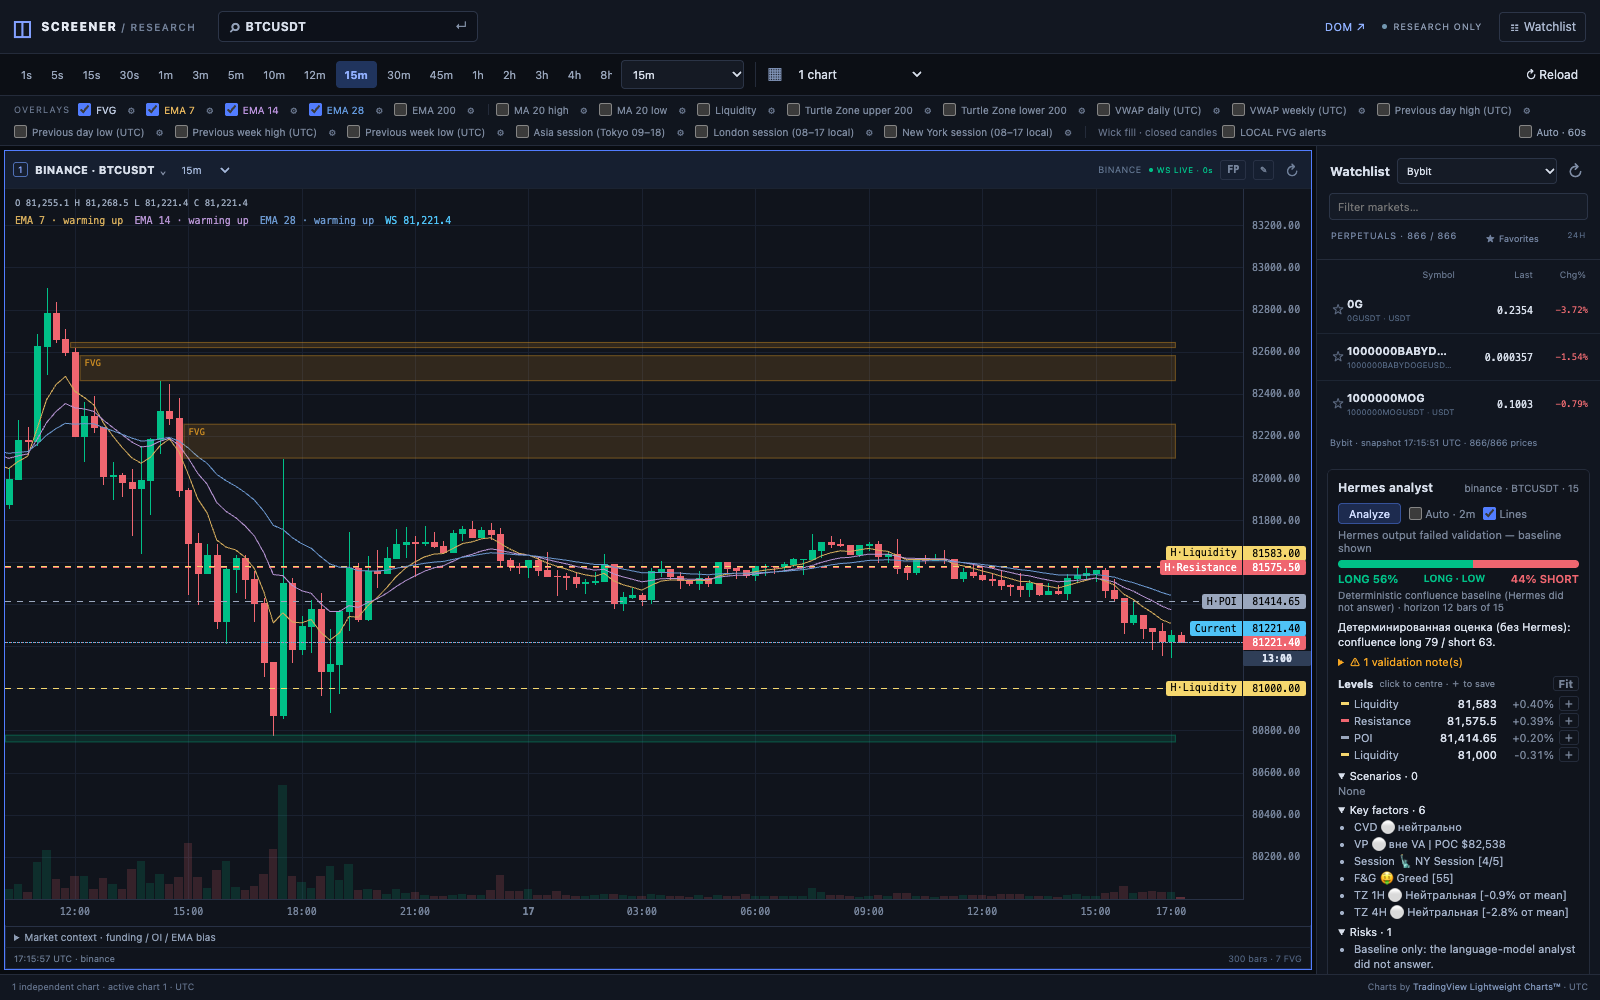
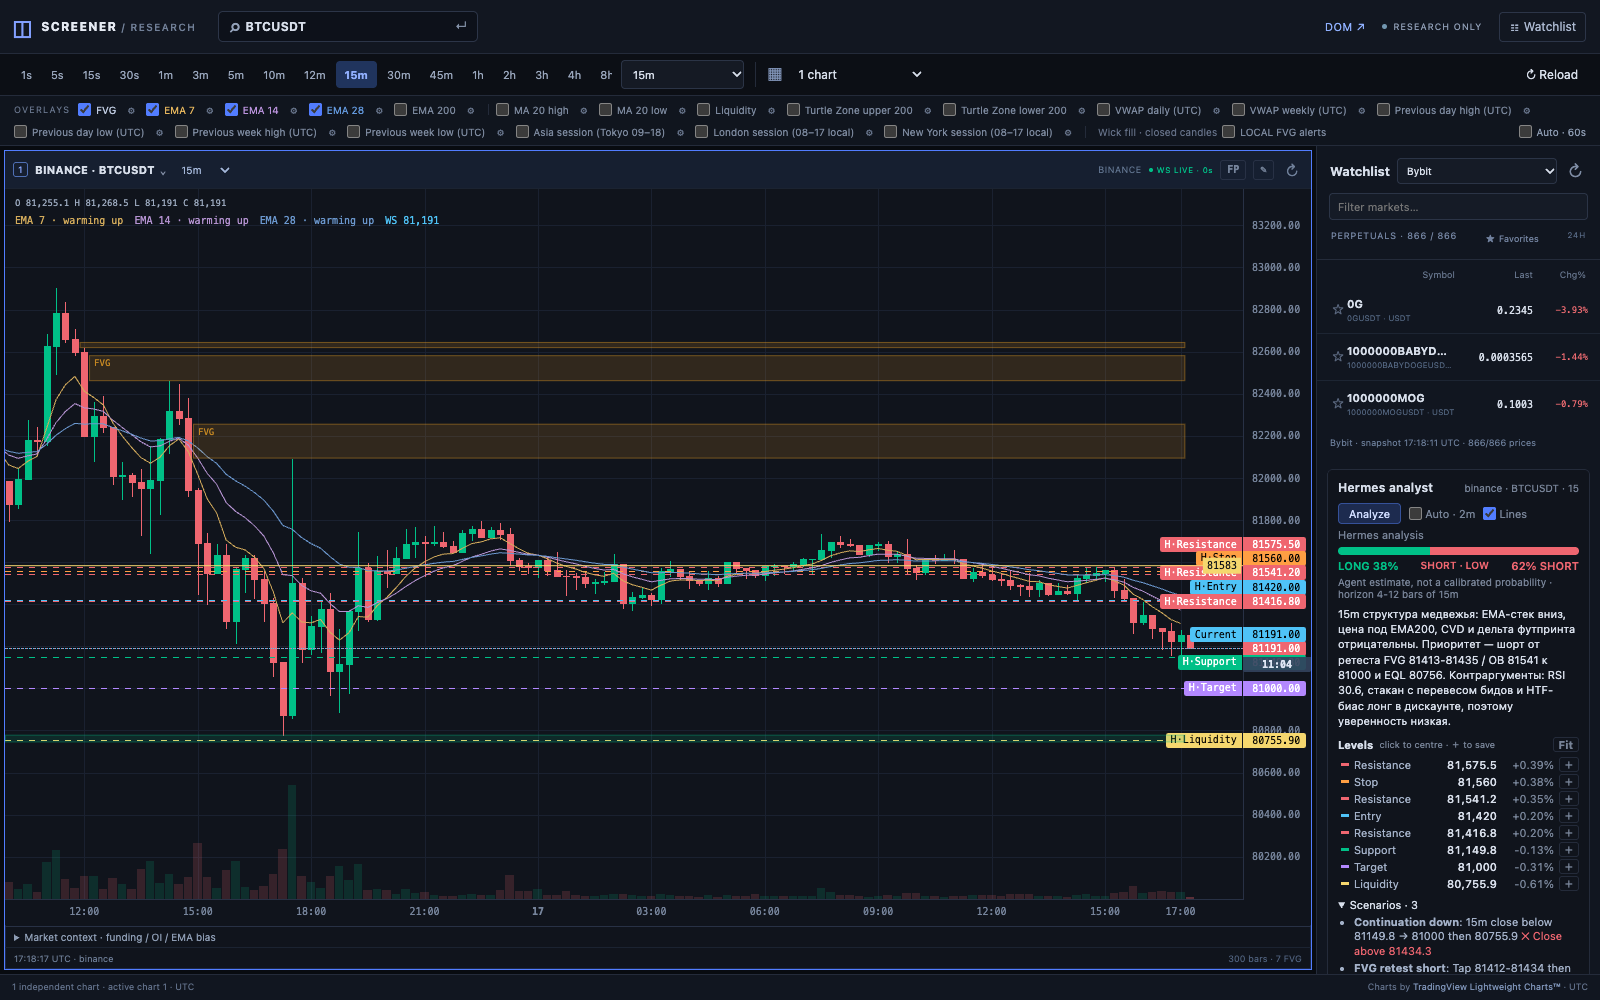
evidence: живые прогоны Hermes analyst (Binance BTC 15m, ETH 1h, Bybit SOL 15m), fallback без Hermes, скриншоты /ui, проверка отсутствия ключа

diff --git a/docs/evidence/hermes-analyst/live_fallback.py b/docs/evidence/hermes-analyst/live_fallback.py
@@ -1,0 +1,23 @@
+"""Live fallback check: real market data, Hermes deliberately unconfigured → deterministic baseline."""
+import json
+import sys
+import tempfile
+from pathlib import Path
+
+sys.path.insert(0, str(Path(__file__).resolve().parents[3]))
+from flask import Flask  # noqa: E402
+
+import screener  # noqa: E402
+from agent_api import register_agent_routes  # noqa: E402
+
+app = Flask(__name__)
+register_agent_routes(app, market=screener.fetch_market, confluence=screener.compute_confluence_score,
+                      store_path=Path(tempfile.mkdtemp()) / "a.sqlite3", env={})
+r = app.test_client().post("/api/agent/analysis", json={"exchange": "binance", "symbol": "BTCUSDT", "interval": "15"})
+d = r.get_json()
+out = {"http": r.status_code, "status": d["status"], "source": d["source"], "warnings": d["warnings"],
+       "analysis": d["analysis"], "baseline_scores": {k: d["baseline"][k] for k in
+                                                     ("long_score", "short_score", "long_verdict", "short_verdict")}}
+(Path(__file__).parent / "fallback_binance_BTCUSDT_15.json").write_text(json.dumps(out, indent=1, ensure_ascii=False))
+print(json.dumps({k: out[k] for k in ("http", "status", "source", "warnings", "baseline_scores")}, ensure_ascii=False))
+print(out["analysis"]["long_pct"], out["analysis"]["bias"], len(out["analysis"]["levels"]))

diff --git a/docs/evidence/hermes-analyst/check_no_secret.py b/docs/evidence/hermes-analyst/check_no_secret.py
@@ -1,0 +1,18 @@
+"""Fail if the Hermes API key (read from ~/.hermes/.env, never printed) appears in tracked files or history."""
+import subprocess
+import sys
+from pathlib import Path
+
+key = ""
+for line in (Path.home() / ".hermes" / ".env").read_text().splitlines():
+    if line.strip().startswith("API_SERVER_KEY="):
+        key = line.split("=", 1)[1].strip().strip('"').strip("'")
+if len(key) < 8:
+    sys.exit("no key to check")
+tracked = subprocess.run(["git", "grep", "-l", "-F", key], capture_output=True, text=True)
+history = subprocess.run(["git", "log", "-p", "--all", "-S", key, "--format=%h"], capture_output=True, text=True)
+work = subprocess.run(["grep", "-rlF", key, "docs/evidence/hermes-analyst"], capture_output=True, text=True)
+hits = [x for x in (tracked.stdout + history.stdout + work.stdout).split() if x]
+print("key length", len(key), "| tracked hits:", tracked.stdout.count("\n"),
+      "| history hits:", len(history.stdout.split()), "| evidence dir hits:", work.stdout.count("\n"))
+sys.exit(1 if hits else 0)
